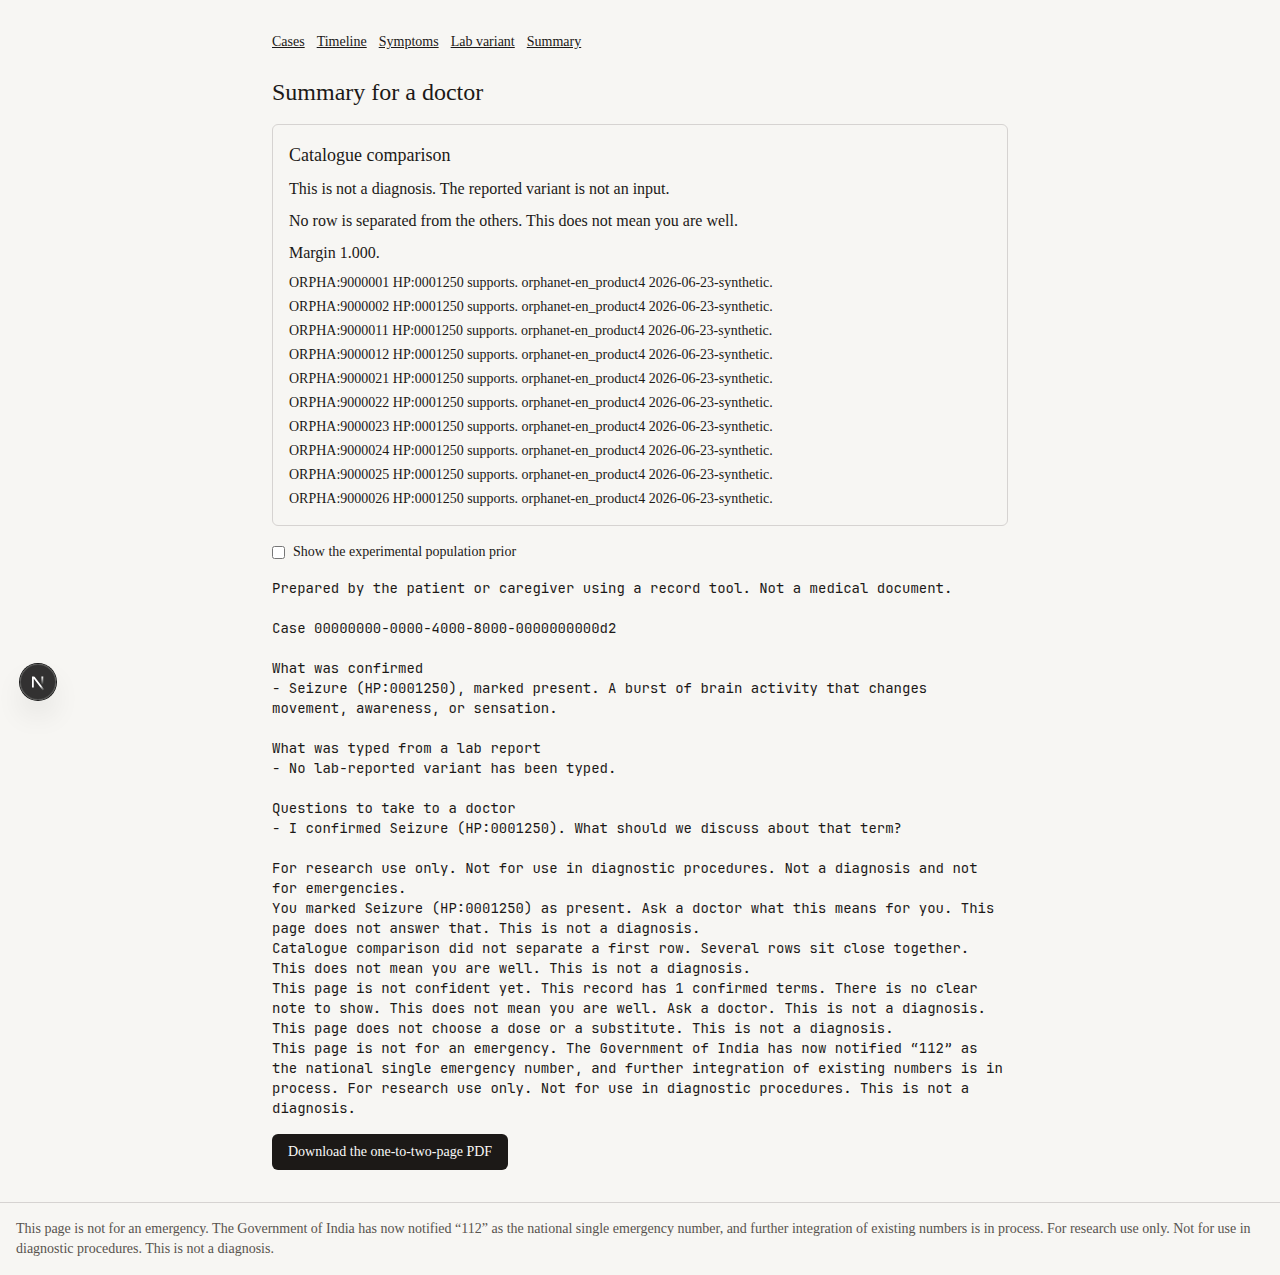
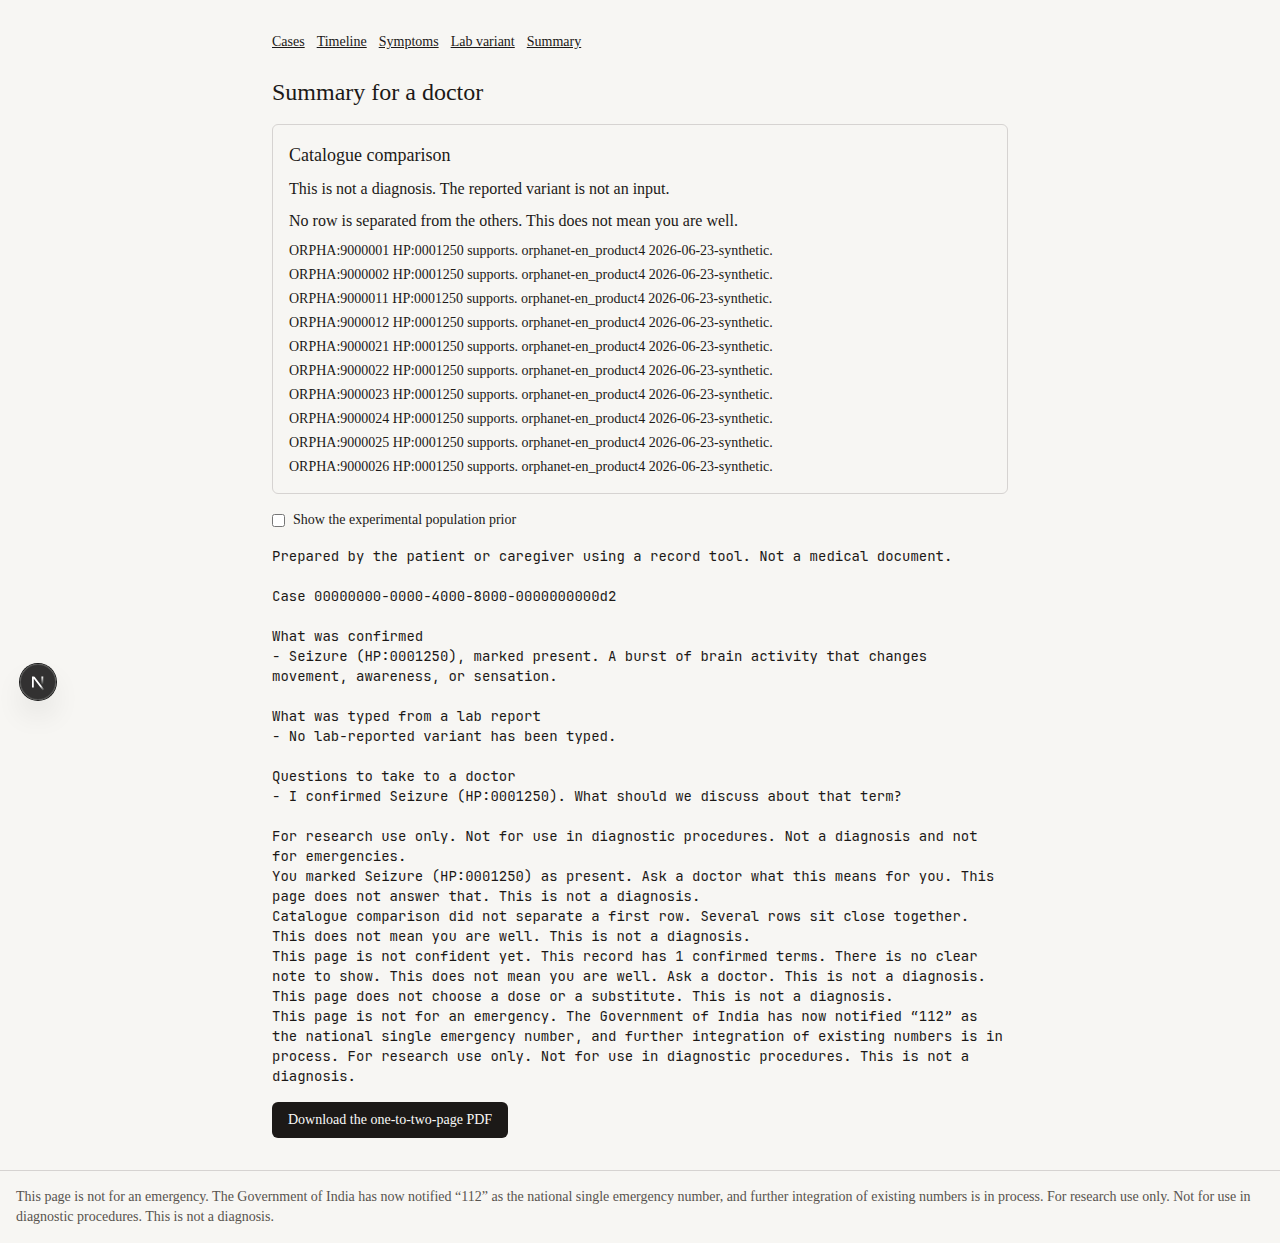
Start the browser demo from the repo root.
apps/web is two directories down, so the Playwright server cwd is ../.. . The abstain page no longer shows a numeric margin, and the browser test checks that.

diff --git a/apps/web/e2e/demo.spec.ts b/apps/web/e2e/demo.spec.ts
@@ -22,6 +22,7 @@ test("five synthetic cases, the comparison, and the stop screen", async ({ page 
   await page.getByRole("button", { name: "Load No separated row" }).click();
   await expect(page.getByText("did not separate a first row").first()).toBeVisible();
   await expect(page.getByText("does not mean you are well").first()).toBeVisible();
+  await expect(page.getByTestId("comparison")).not.toContainText("Margin");
   await page.screenshot({ path: path.join(shots, "03-abstain.png"), fullPage: true });
 
   await page.goto("/");

diff --git a/apps/web/playwright.config.ts b/apps/web/playwright.config.ts
@@ -6,7 +6,7 @@ export default defineConfig({
   use: { baseURL: "http://127.0.0.1:3000" },
   webServer: {
     command: ".venv/bin/python scripts/demo.py",
-    cwd: "..",
+    cwd: "../..",
     url: "http://127.0.0.1:3000",
     reuseExistingServer: true,
     timeout: 120_000,

diff --git a/docs/code-review.md b/docs/code-review.md
@@ -17,7 +17,7 @@ This review reads the branch `cursor/finish-odyssey-demo-79af` against `cursor/i
 
 - The warning-sign button left the page blank when `fetch` threw. The click is `void save(...)`, so the rejection was unhandled. The page now says the notebook cannot reach the API. A 409 body that is not JSON still shows "Stop. The words were not saved."
 - A set `OPENROUTER_API_KEY` with no `:free` id list did not call OpenRouter, and the README read as if the key alone were enough. The client still refuses to invent a model id. The README and finish report say to set `OPENROUTER_FREE_MODELS`. A test locks that an unset list does not call OpenRouter and that the provider recorded is `gazetteer`.
-- Playwright resolved `cd ../..` from `apps/web`, which leaves the repo. The web server command is `.venv/bin/python scripts/demo.py` with `cwd: ".."`, so a cold start runs from the repo root.
+- Playwright's config file is in `apps/web`. `cwd: ".."` is the `apps` directory, which has no `.venv`. The web server command is `.venv/bin/python scripts/demo.py` with `cwd: "../.."`, the repo root. A cold `make e2e` with ports 3000 and 8000 closed started the API and passed the five-case browser test.
 - `d1_eval store` printed the term-overlap-loo top-1 as an unlabeled `top1=`. The command summary now leads with `frequency-bin` totals and labels the stand-in line `term-overlap-loo`. `eval/RESULTS.md` was not rewritten.
 - An abstained comparison still showed `Margin 1.000` when ten diseases tied. The panel hides that number when `abstained` is true. The API still returns margin 1 for the tie.
 - `complete_with_gemini` reads `GEMINI_API_KEY` or `GOOGLE_API_KEY`, follows `nextPageToken`, chooses the id, calls Gemini first, and stores that id on `Completion`. OpenRouter stays behind a 429 or `RESOURCE_EXHAUSTED`, and only for an id ending in `:free`. No key returns the pinned gazetteer sentence, does not call HTTP, and does not write the replay cache.

diff --git a/docs/FINISH-report.md b/docs/FINISH-report.md
@@ -54,7 +54,7 @@ Fixed while finishing:
 - An inline import in the held-out test was moved to the top of the file.
 - A warning-sign click whose request never reached the API left the page blank. The page now says the notebook cannot reach the API.
 - An abstained catalogue comparison showed `Margin 1.000` while the summary already omitted it. The panel now hides the number when the report abstains. The API still returns margin 1 for that tie.
-- Playwright's web server command changed directory from `apps/web` with `cd ../..`, which is outside the repo. It now runs `.venv/bin/python scripts/demo.py` with the repo root as the working directory.
+- Playwright starts `.venv/bin/python scripts/demo.py` with working directory `../..` from `apps/web`, which is the repo root. `cwd: ".."` is only the `apps` directory. A cold `make e2e` with nothing listening on ports 3000 and 8000 started the API and passed.
 - `d1_eval store` printed the term-overlap-loo top-1 without a label. The summary now names frequency-bin first and labels the stand-in.
 - The generated TypeScript client treated OpenAPI `const` as `string`. `margin_reason` is the literal `runner_up_ratio_is_zero` or null.
 - A Gemini success did not record the model id, and nothing read `GEMINI_API_KEY`. `complete_with_gemini` lists the models pages, calls the chosen id, and stores it. A missing key degrades without HTTP.
